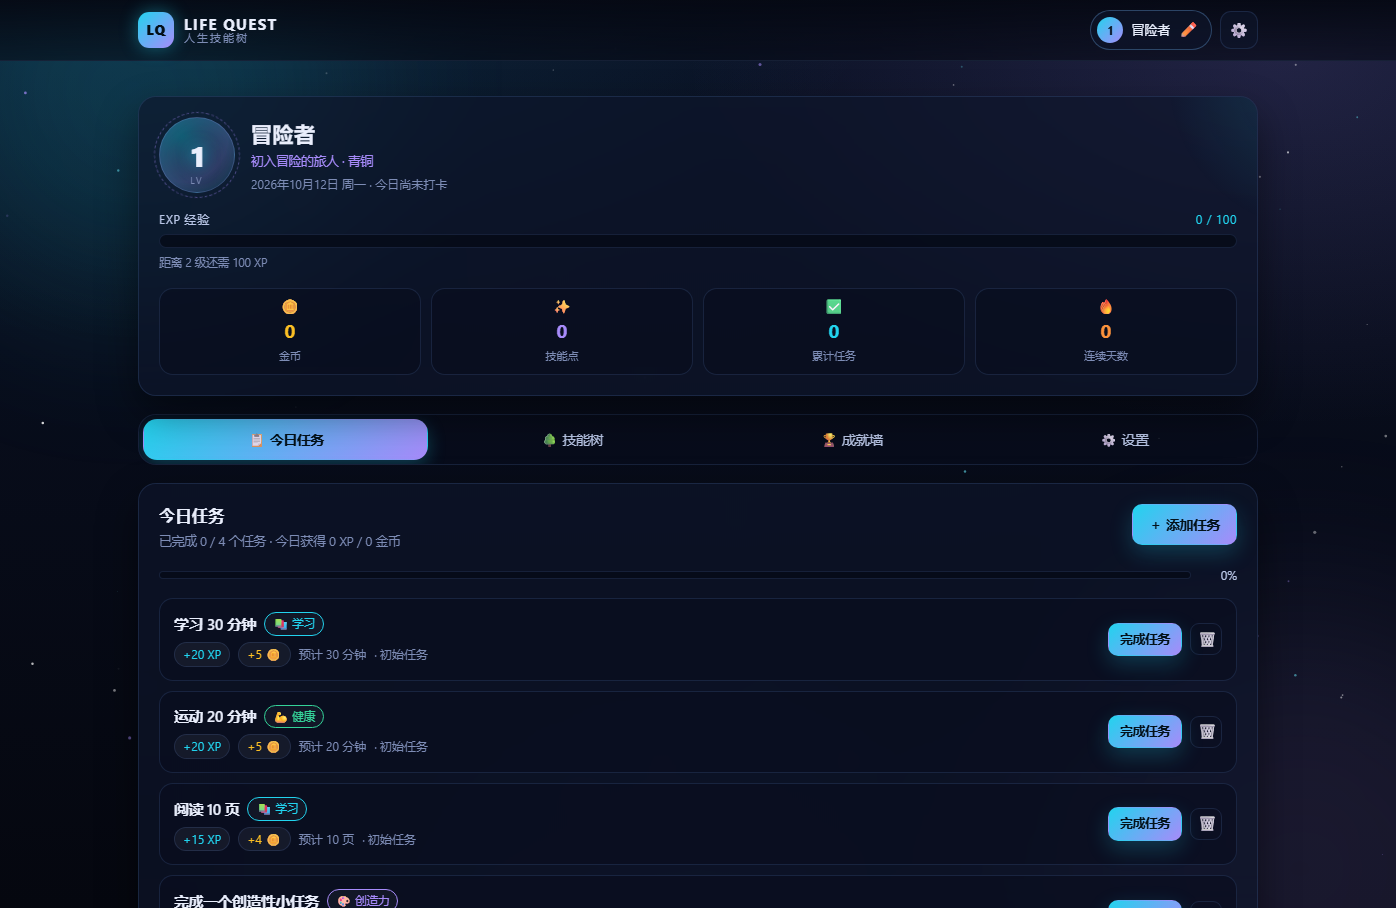
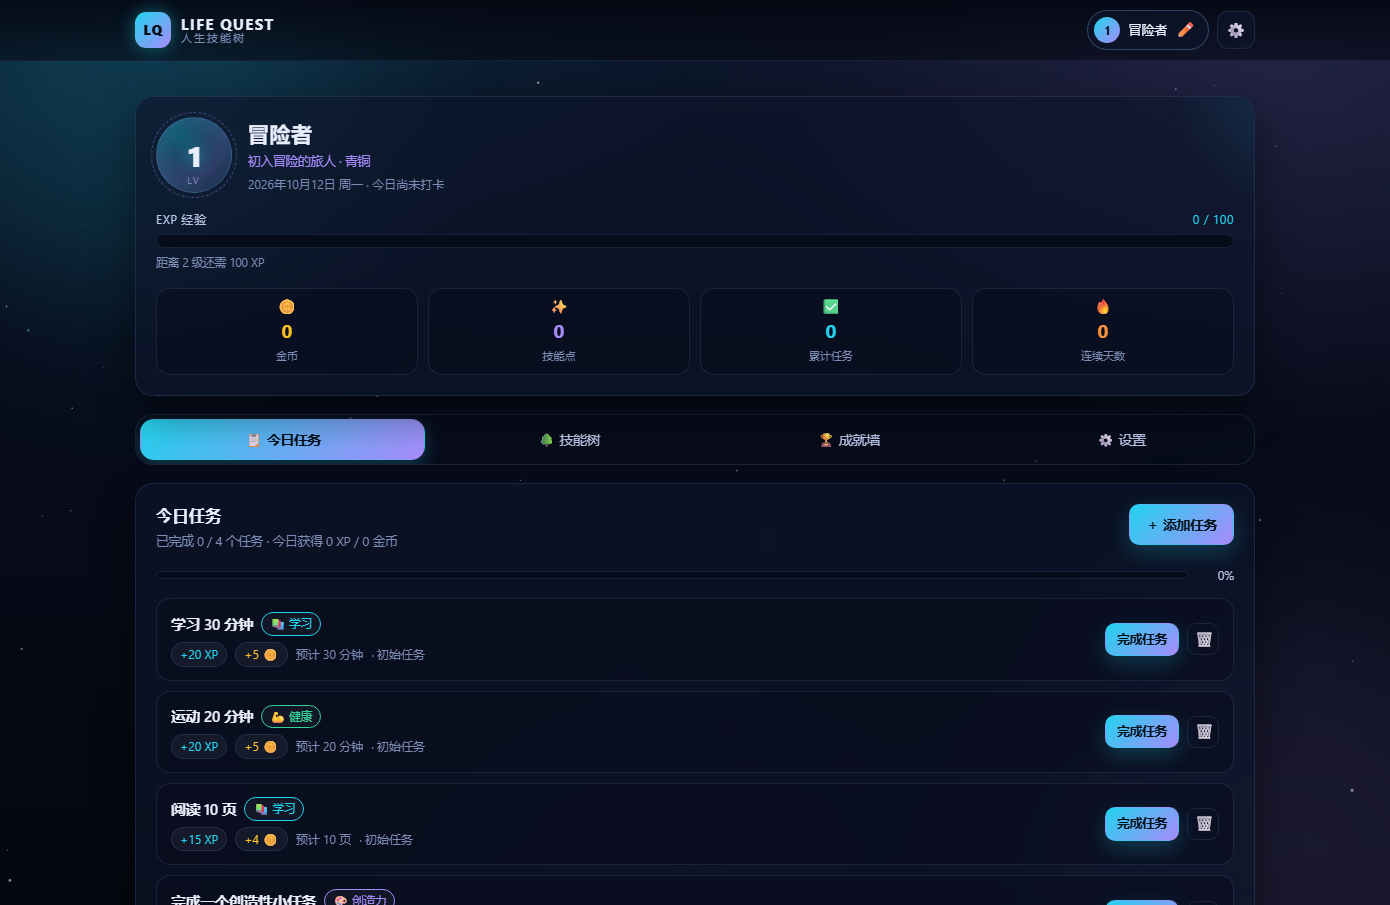
Add files via upload

diff --git a/index.html b/index.html
@@ -239,11 +239,164 @@
   </div>
 </div>
 
-<script src="js/store.js"></script>
-<script src="js/tasks.js"></script>
-<script src="js/skills.js"></script>
-<script src="js/achievements.js"></script>
-<script src="js/ui.js"></script>
-<script src="js/app.js"></script>
+<!-- ============================================================
+     脚本加载区
+     每个外链脚本都带 onerror 追踪，便于部署后快速定位 404
+     ============================================================ -->
+<script>
+/* 内联：记录脚本加载失败（不依赖任何外部文件，即使 js 目录整个缺失也能运行） */
+(function () {
+  var failed = [];
+  window.__LQ_SCRIPT_ERRORS__ = failed;
+  window.__LQ_onScriptError = function (src) { if (failed.indexOf(src) < 0) failed.push(src); };
+})();
+</script>
+<script src="js/store.js" onerror="window.__LQ_onScriptError('js/store.js')"></script>
+<script src="js/tasks.js" onerror="window.__LQ_onScriptError('js/tasks.js')"></script>
+<script src="js/skills.js" onerror="window.__LQ_onScriptError('js/skills.js')"></script>
+<script src="js/achievements.js" onerror="window.__LQ_onScriptError('js/achievements.js')"></script>
+<script src="js/ui.js" onerror="window.__LQ_onScriptError('js/ui.js')"></script>
+<script src="js/app.js" onerror="window.__LQ_onScriptError('js/app.js')"></script>
+
+<!-- ============================================================
+     启动自检（内联，样式全部内联，不依赖 style.css）
+     JS 未加载或初始化失败时，直接在页面上给出可操作的提示，
+     避免出现"页面能看但按钮点了没反应"的黑箱状态。
+     ============================================================ -->
+<script>
+(function () {
+  function esc(s) {
+    return String(s).replace(/[&<>"]/g, function (c) {
+      return { "&": "&amp;", "<": "&lt;", ">": "&gt;", '"': "&quot;" }[c];
+    });
+  }
+
+  /* 显示提示横幅（可被 app.js 的初始化异常处理复用） */
+  window.__LQ_showBanner = function (title, lines, showProbe, extra) {
+    if (document.getElementById("lqBootError")) return;
+    if (!document.body) return;
+
+    var box = document.createElement("div");
+    box.id = "lqBootError";
+    box.setAttribute("role", "alert");
+    box.style.cssText =
+      "position:fixed;z-index:2147483647;left:12px;right:12px;top:12px;max-width:680px;margin:0 auto;" +
+      "background:#1b0f16;color:#ffe4e6;border:1px solid #f87171;border-radius:14px;padding:16px 18px;" +
+      "font:14px/1.65 system-ui,-apple-system,'Segoe UI','PingFang SC','Microsoft YaHei',sans-serif;" +
+      "box-shadow:0 20px 60px rgba(0,0,0,.65);max-height:82vh;overflow:auto;text-align:left;";
+
+    var html = '<div style="font-size:16px;font-weight:700;color:#fecaca;margin:0 0 8px;">⚠ ' + esc(title) + "</div>";
+    html += '<ul style="margin:0 0 10px;padding-left:20px;">';
+    lines.forEach(function (l) { html += '<li style="margin:4px 0;">' + l + "</li>"; });
+    html += "</ul>";
+
+    if (extra) {
+      html += '<pre style="margin:8px 0 12px;padding:10px 12px;background:#0b0f1c;border-radius:9px;' +
+        'color:#fca5a5;font-size:11.5px;line-height:1.5;white-space:pre-wrap;word-break:break-all;max-height:180px;overflow:auto;">' +
+        esc(extra) + "</pre>";
+    }
+
+    html += '<div style="display:flex;gap:9px;flex-wrap:wrap;margin-top:12px;">';
+    if (showProbe) {
+      html += '<button id="lqProbeBtn" type="button" style="background:#22d3ee;color:#04121a;font-weight:700;border:0;' +
+        'border-radius:9px;padding:10px 15px;font-size:13.5px;cursor:pointer;">诊断资源加载状态</button>';
+    }
+    html += '<button id="lqReloadBtn" type="button" style="background:#f87171;color:#1a0505;font-weight:700;border:0;' +
+      'border-radius:9px;padding:10px 15px;font-size:13.5px;cursor:pointer;">重新加载页面</button>';
+    html += '<button id="lqCloseBtn" type="button" style="background:transparent;color:#fecaca;border:1px solid #f87171;' +
+      'border-radius:9px;padding:10px 15px;font-size:13.5px;cursor:pointer;">关闭提示</button>';
+    html += "</div>";
+    if (showProbe) {
+      html += '<pre id="lqProbeOut" style="margin:10px 0 0;padding:10px 12px;background:#0b0f1c;border-radius:9px;' +
+        'color:#9ae6b4;font-size:11.5px;line-height:1.55;white-space:pre-wrap;word-break:break-all;max-height:220px;overflow:auto;"></pre>';
+    }
+    box.innerHTML = html;
+    document.body.appendChild(box);
+
+    var rb = document.getElementById("lqReloadBtn");
+    if (rb) rb.addEventListener("click", function () { location.reload(); });
+    var cb = document.getElementById("lqCloseBtn");
+    if (cb) cb.addEventListener("click", function () { if (box.parentNode) box.parentNode.removeChild(box); });
+
+    var pb = document.getElementById("lqProbeBtn");
+    if (pb) pb.addEventListener("click", function () {
+      var out = document.getElementById("lqProbeOut");
+      var files = ["index.html", "style.css", "js/store.js", "js/tasks.js", "js/skills.js",
+                   "js/achievements.js", "js/ui.js", "js/app.js"];
+      out.textContent = "检测中…（共 " + files.length + " 个文件）";
+      var lines2 = [];
+      var done = 0;
+      files.forEach(function (f) {
+        var url = new URL(f, location.href).href;
+        fetch(url, { cache: "no-store" }).then(function (r) {
+          lines2.push((r.ok ? "✅ " : "❌ ") + r.status + "  " + url);
+        }).catch(function () {
+          lines2.push("❌ 无法访问  " + url);
+        }).then(function () {
+          done += 1;
+          if (done === files.length) {
+            lines2.sort();
+            out.textContent = lines2.join("\n") + "\n\n（❌ 表示文件没有部署成功）";
+          }
+        });
+      });
+    });
+  };
+
+  function check() {
+    if (document.getElementById("lqBootError")) return;   // 已经提示过
+    var LQ = window.LQ;
+    var failedSrc = window.__LQ_SCRIPT_ERRORS__ || [];
+    var bootErr = window.__LQ_BOOT_ERROR__;
+    var ready = !!(LQ && LQ.App && LQ.App.ready);
+    if (ready && !bootErr) return;   // 一切正常，静默
+
+    var missing = [];
+    if (!LQ) {
+      missing.push("全部脚本均未加载");
+    } else {
+      if (!LQ.Store) missing.push("js/store.js");
+      if (!LQ.Tasks) missing.push("js/tasks.js");
+      if (!LQ.Skills) missing.push("js/skills.js");
+      if (!LQ.Achievements) missing.push("js/achievements.js");
+      if (!LQ.UI) missing.push("js/ui.js");
+      if (!LQ.App) missing.push("js/app.js");
+    }
+
+    var isFile = location.protocol === "file:";
+    var title = "JavaScript 未能加载，页面按钮无法点击";
+    var lines = [];
+
+    if (bootErr) {
+      title = "页面初始化失败，交互功能不可用";
+      lines.push("脚本已加载，但初始化过程中发生异常。");
+    }
+    if (failedSrc.length) {
+      lines.push("以下文件加载失败（404 或路径错误）：<b style='color:#fca5a5'>" + failedSrc.map(esc).join("、") + "</b>");
+    }
+    if (missing.length) {
+      lines.push("未就绪的模块：" + missing.map(esc).join("、"));
+    }
+    if (isFile) {
+      lines.push("当前是本地文件方式打开：请确认 <b>js</b> 文件夹与 index.html 位于同一目录，且六个 .js 文件都在其中。");
+    } else {
+      lines.push("最常见原因：部署时只上传了 index.html 和 style.css，<b>漏掉了 js 文件夹</b>。");
+      lines.push("请确认仓库根目录下存在 <b>js/</b> 目录，且包含 store.js、tasks.js、skills.js、achievements.js、ui.js、app.js。");
+      lines.push("也可以直接在浏览器打开 <b>" + esc(new URL("js/app.js", location.href).href) + "</b>，若显示 404 就说明文件未部署。");
+      lines.push("若刚更新过文件，请在手机浏览器中清除缓存或强制刷新后重试。");
+    }
+    lines.push("点击「诊断资源加载状态」可自动检测每个文件的 HTTP 状态码。");
+
+    window.__LQ_showBanner(title, lines, !isFile, bootErr || null);
+  }
+
+  function schedule() {
+    // 留出时间让外链脚本执行完毕，再做判定
+    setTimeout(check, 150);
+  }
+  if (document.readyState === "complete") schedule();
+  else window.addEventListener("load", schedule);
+})();
+</script>
 </body>
 </html>

diff --git a/README.md b/README.md
@@ -45,15 +45,26 @@ npx http-server -p 8787
 │   ├── ui.js           # 渲染层：面板绘制、技能树 SVG 连线、toast / 弹窗 / 粒子
 │   └── app.js          # 应用层：初始化、事件绑定、跨天监测、存档管理
 ├── test/
-│   ├── logic-test.js   # 纯逻辑测试（Node，无需浏览器）
-│   ├── dom-test.js     # DOM 集成测试（jsdom）
-│   ├── browser-check.js# 真实浏览器检查（Edge headless + CDP，含截图）
-│   └── shots/          # 真实浏览器截图产物
-├── TEST-REPORT.md      # 测试结果与已知问题
+│   ├── logic-test.js      # 纯逻辑测试（Node，无需浏览器）
+│   ├── dom-test.js        # DOM 集成测试（jsdom）
+│   ├── browser-check.js   # 真实浏览器检查（Edge headless + CDP，真实鼠标事件 + 截图）
+│   ├── touch-check.js     # 移动端真实触摸交互检查（CDP 触摸事件序列）
+│   ├── deploy-failure.js  # 部署故障注入：模拟 js 目录 404，验证错误提示
+│   └── shots/             # 真实浏览器截图产物
+├── .nojekyll              # 告诉 GitHub Pages 不要用 Jekyll 处理本仓库
+├── TEST-REPORT.md         # 测试结果与已知问题
 └── README.md
 ```
 
 代码按数据 / 逻辑 / 渲染 / 应用四层拆分，单个函数职责单一，没有巨型函数。
+
+### 启动自检
+
+`index.html` 内置了一段不依赖外部文件的启动自检脚本：
+
+- 每个外链脚本都带 `onerror`，若某个文件 404 会被记录。
+- 页面加载完成后若发现 `window.LQ` 未就绪或初始化异常，会在页面顶部弹出**红色提示框**，明确指出失败的文件、给出检查步骤，并提供「诊断资源加载状态」按钮（逐个文件检测 HTTP 状态码）与「重新加载页面」按钮。
+- 正常情况下该提示不会出现，不影响界面。
 
 ---
 
@@ -153,6 +164,26 @@ npx http-server -p 8787
 
 ## 五、免费部署指南（GitHub Pages）
 
+> ❗ **必须上传完整的目录结构，不能只传 `index.html`。**
+> 只上传 `index.html` + `style.css` 会出现「页面样式和中文正常，但所有按钮点了没反应」——
+> 因为 JavaScript 所在目录缺失，脚本全部 404。现在遇到这种情况，页面会自己弹出红色提示框告诉你哪个文件没加载。
+
+### 必须存在的文件（缺一不可）
+
+```
+index.html
+style.css
+.nojekyll
+js/store.js
+js/tasks.js
+js/skills.js
+js/achievements.js
+js/ui.js
+js/app.js
+```
+
+### 部署步骤
+
 1. 在 GitHub 新建一个仓库，例如 `life-quest`（Public）。
 2. 把项目文件上传到仓库根目录（`index.html` 必须在根目录）：
    ```bash
@@ -164,9 +195,26 @@ npx http-server -p 8787
    git remote add origin https://github.com/<你的用户名>/life-quest.git
    git push -u origin main
    ```
-   也可以在仓库页面点 `Add file → Upload files` 直接拖拽上传。
+   也可以在仓库页面点 `Add file → Upload files`，**把整个文件夹拖进去**（网页上传支持拖拽文件夹并保留目录结构，不要只拖单个文件）。
 3. 仓库页面进入 `Settings → Pages`，`Source` 选择 `Deploy from a branch`，分支选 `main`、目录选 `/ (root)`，保存。
 4. 等待约 1 分钟，访问 `https://<你的用户名>.github.io/life-quest/`。
+
+### 部署后自检（30 秒）
+
+在浏览器地址栏依次打开下面三个地址，**都应该显示代码内容而不是 404**：
+
+```
+https://<你的用户名>.github.io/life-quest/
+https://<你的用户名>.github.io/life-quest/js/app.js
+https://<你的用户名>.github.io/life-quest/style.css
+```
+
+如果 `js/app.js` 是 404，就是文件没上传成功，重新上传 `js` 文件夹即可。
+
+### 更新代码后没生效？
+
+- 手机浏览器缓存很激进：在浏览器设置里清除该站点数据，或用无痕窗口打开。
+- GitHub Pages 有约 1 分钟构建延迟，可在仓库 `Actions` 页面查看部署状态。
 
 **其他免费选项**：Cloudflare Pages、Netlify（直接把文件夹拖到 netlify.com/drop）、Vercel、Gitee Pages。
 
@@ -174,6 +222,18 @@ npx http-server -p 8787
 
 ---
 
-## 六、测试与已知问题
+## 六、交互兼容性说明
 
-见 [`TEST-REPORT.md`](./TEST-REPORT.md)。三套测试共 117 项全部通过，其中包含真实 Edge 浏览器（headless + CDP）的渲染、交互、控制台错误与移动端视口检查。
+点击交互做了三层保障，鼠标与触屏都能用：
+
+1. **主路径**：`document` 上的 `click` 事件委托（鼠标与触摸设备通用）。
+2. **目标查找不依赖 `Element.closest`**：自己逐层向上遍历 `parentNode` 查找 `data-action`，避免老 WebView 缺少该方法时全部按钮失效。
+3. **触摸兜底**：若某次触摸在 350ms 内没有产生 `click`（少数老旧 WebView 不会合成 click），由 `touchend` 直接执行该操作。两条路径互斥，不会重复执行，也不会吞掉用户的连续点击。
+
+另外：`touch-action: manipulation` 消除移动端双击缩放带来的点击延迟；移动端按钮最小高度 40px，方便手指点击；任何初始化或运行时异常都会在页面上显示红色提示框，不会出现「点了没反应但毫无线索」的情况。
+
+---
+
+## 七、测试与已知问题
+
+见 [`TEST-REPORT.md`](./TEST-REPORT.md)。五套测试共 158 项全部通过，包含真实 Edge 浏览器（headless + CDP）的**真实鼠标事件**与**真实触摸序列**、移动端双 UA（Android Chrome / iOS Safari）、以及「js 目录 404」的部署故障注入验证。

diff --git a/TEST-REPORT.md b/TEST-REPORT.md
@@ -1,8 +1,11 @@
 # LIFE QUEST 测试报告
 
 测试时间：2026-10-12
-被测版本：v1.0（`index.html` / `style.css` / `js/*.js`）
-测试结论：**三套测试共 117 项全部通过，未发现阻断性问题。**
+被测版本：v1.1（`index.html` / `style.css` / `js/*.js`）
+测试结论：**五套测试共 158 项全部通过，未发现阻断性问题。**
+
+> v1.1 修订：针对「手机浏览器上按钮点击没有任何反应」的报告做了完整排查与加固，
+> 结论与修复清单详见 [第七节](#七移动端点击失效排查与修复记录v11)。
 
 ---
 
@@ -37,8 +40,12 @@ node test/browser-check.js
 | --- | --- | --- | --- |
 | `logic-test.js` | 存档/等级/任务/技能/成就/日期/导入导出 的纯逻辑 | 52 | 0 |
 | `dom-test.js` | jsdom 中的渲染、点击交互、持久化、重置、导入 | 42 | 0 |
-| `browser-check.js` | 真实浏览器渲染、交互、控制台错误、移动端、减少动效 | 23 | 0 |
-| **合计** | | **117** | **0** |
+| `browser-check.js` | 真实浏览器渲染、**真实鼠标事件**、控制台错误、移动端视口、减少动效 | 28 | 0 |
+| `touch-check.js` | **真实触摸事件序列**（Android Chrome / iOS Safari 双 UA）、遮罩层检测、横向溢出 | 31 | 0 |
+| `deploy-failure.js` | 部署故障注入：`js` 目录 404 时的错误提示是否生效 | 5 | 0 |
+| **合计** | | **158** | **0** |
+
+此外用 `--dump-dom` 验证了 `file://` 协议直接打开：任务卡片 4 个、技能节点 16 个、成就卡片 9 个全部渲染，且不会误报启动错误提示。
 
 ---
 
